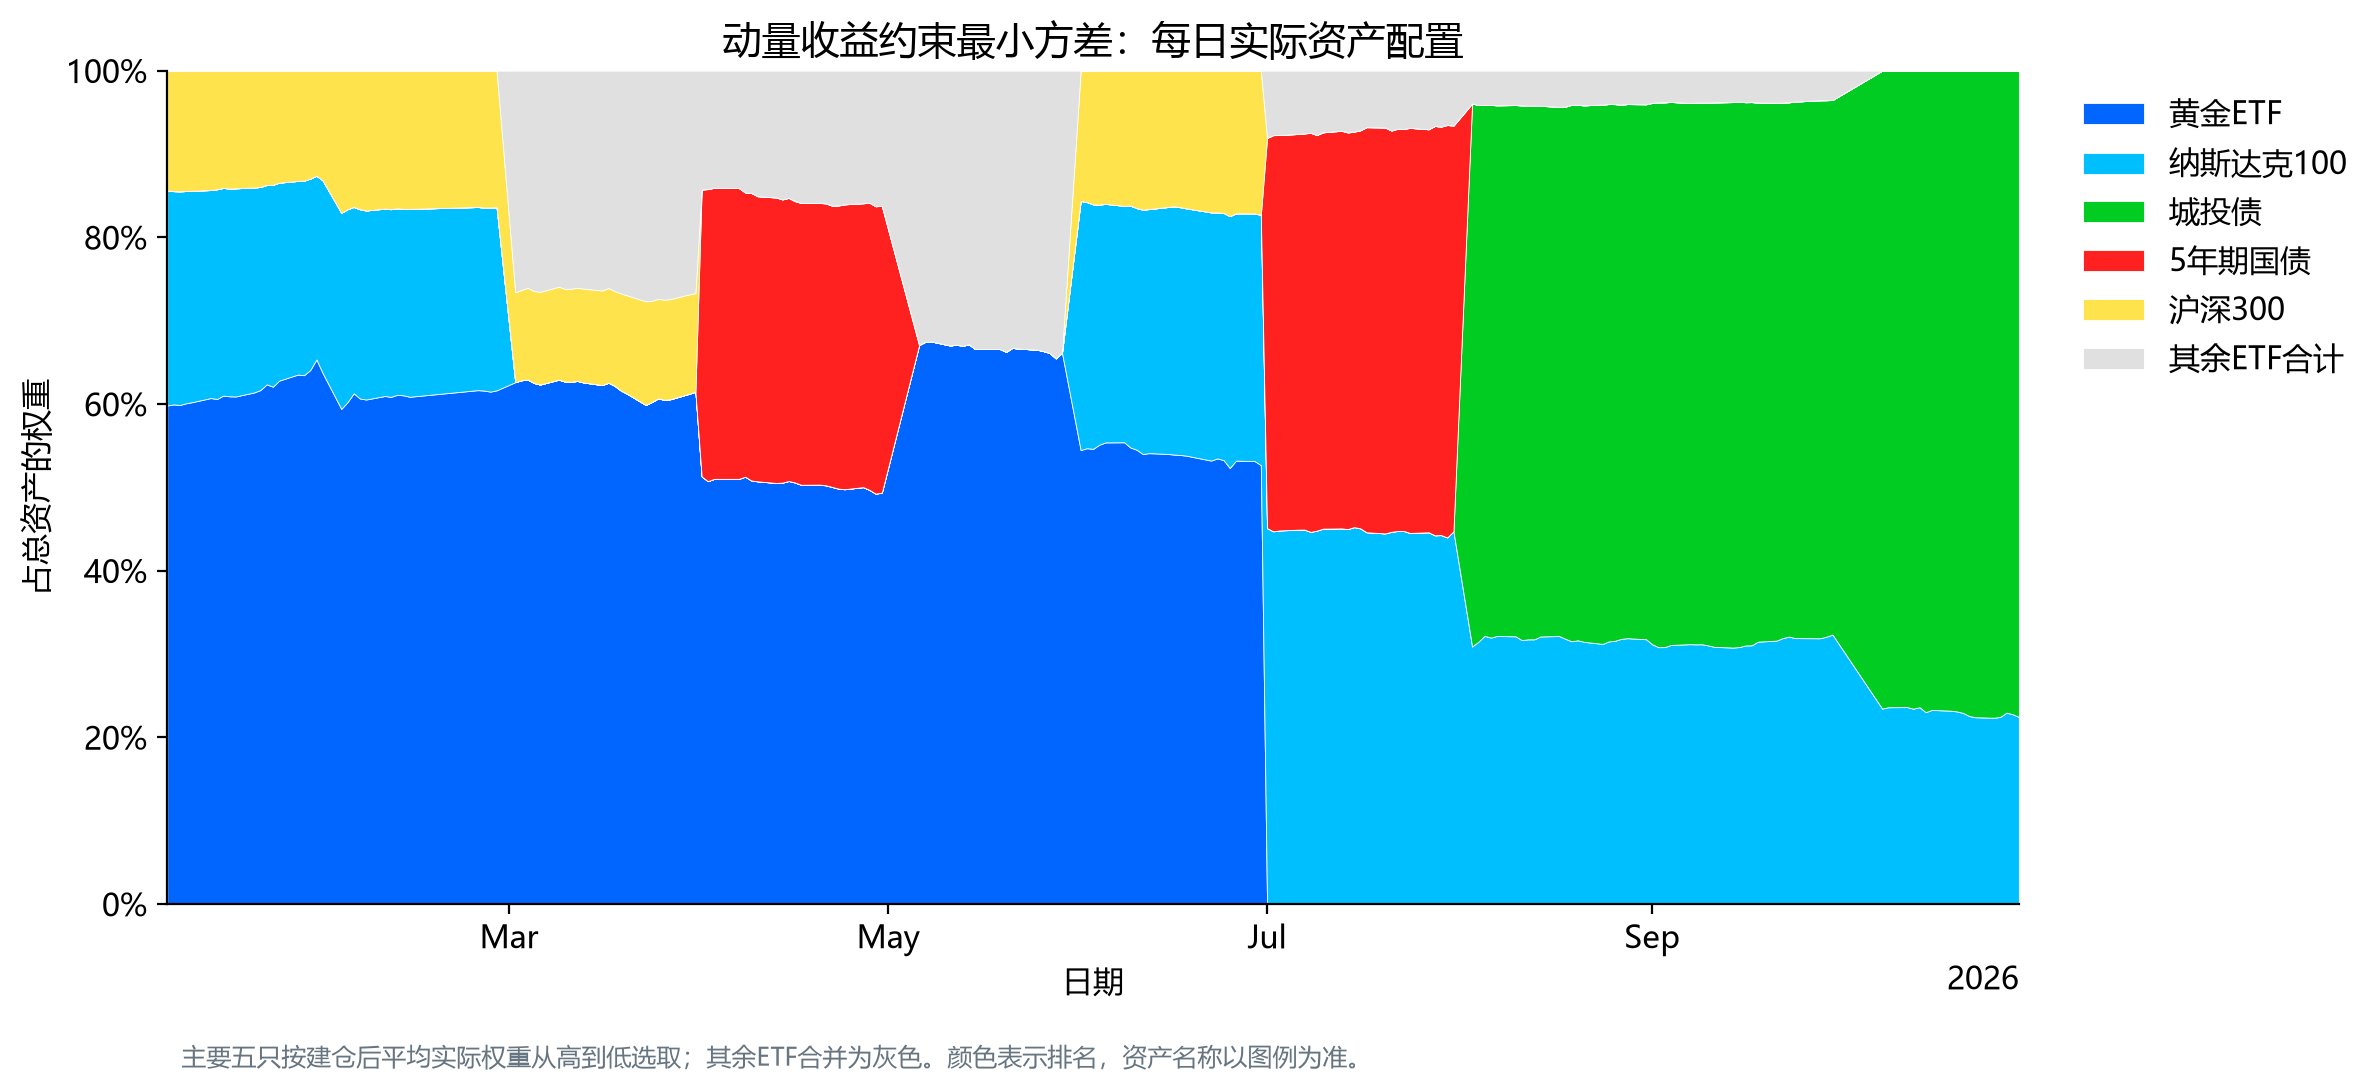
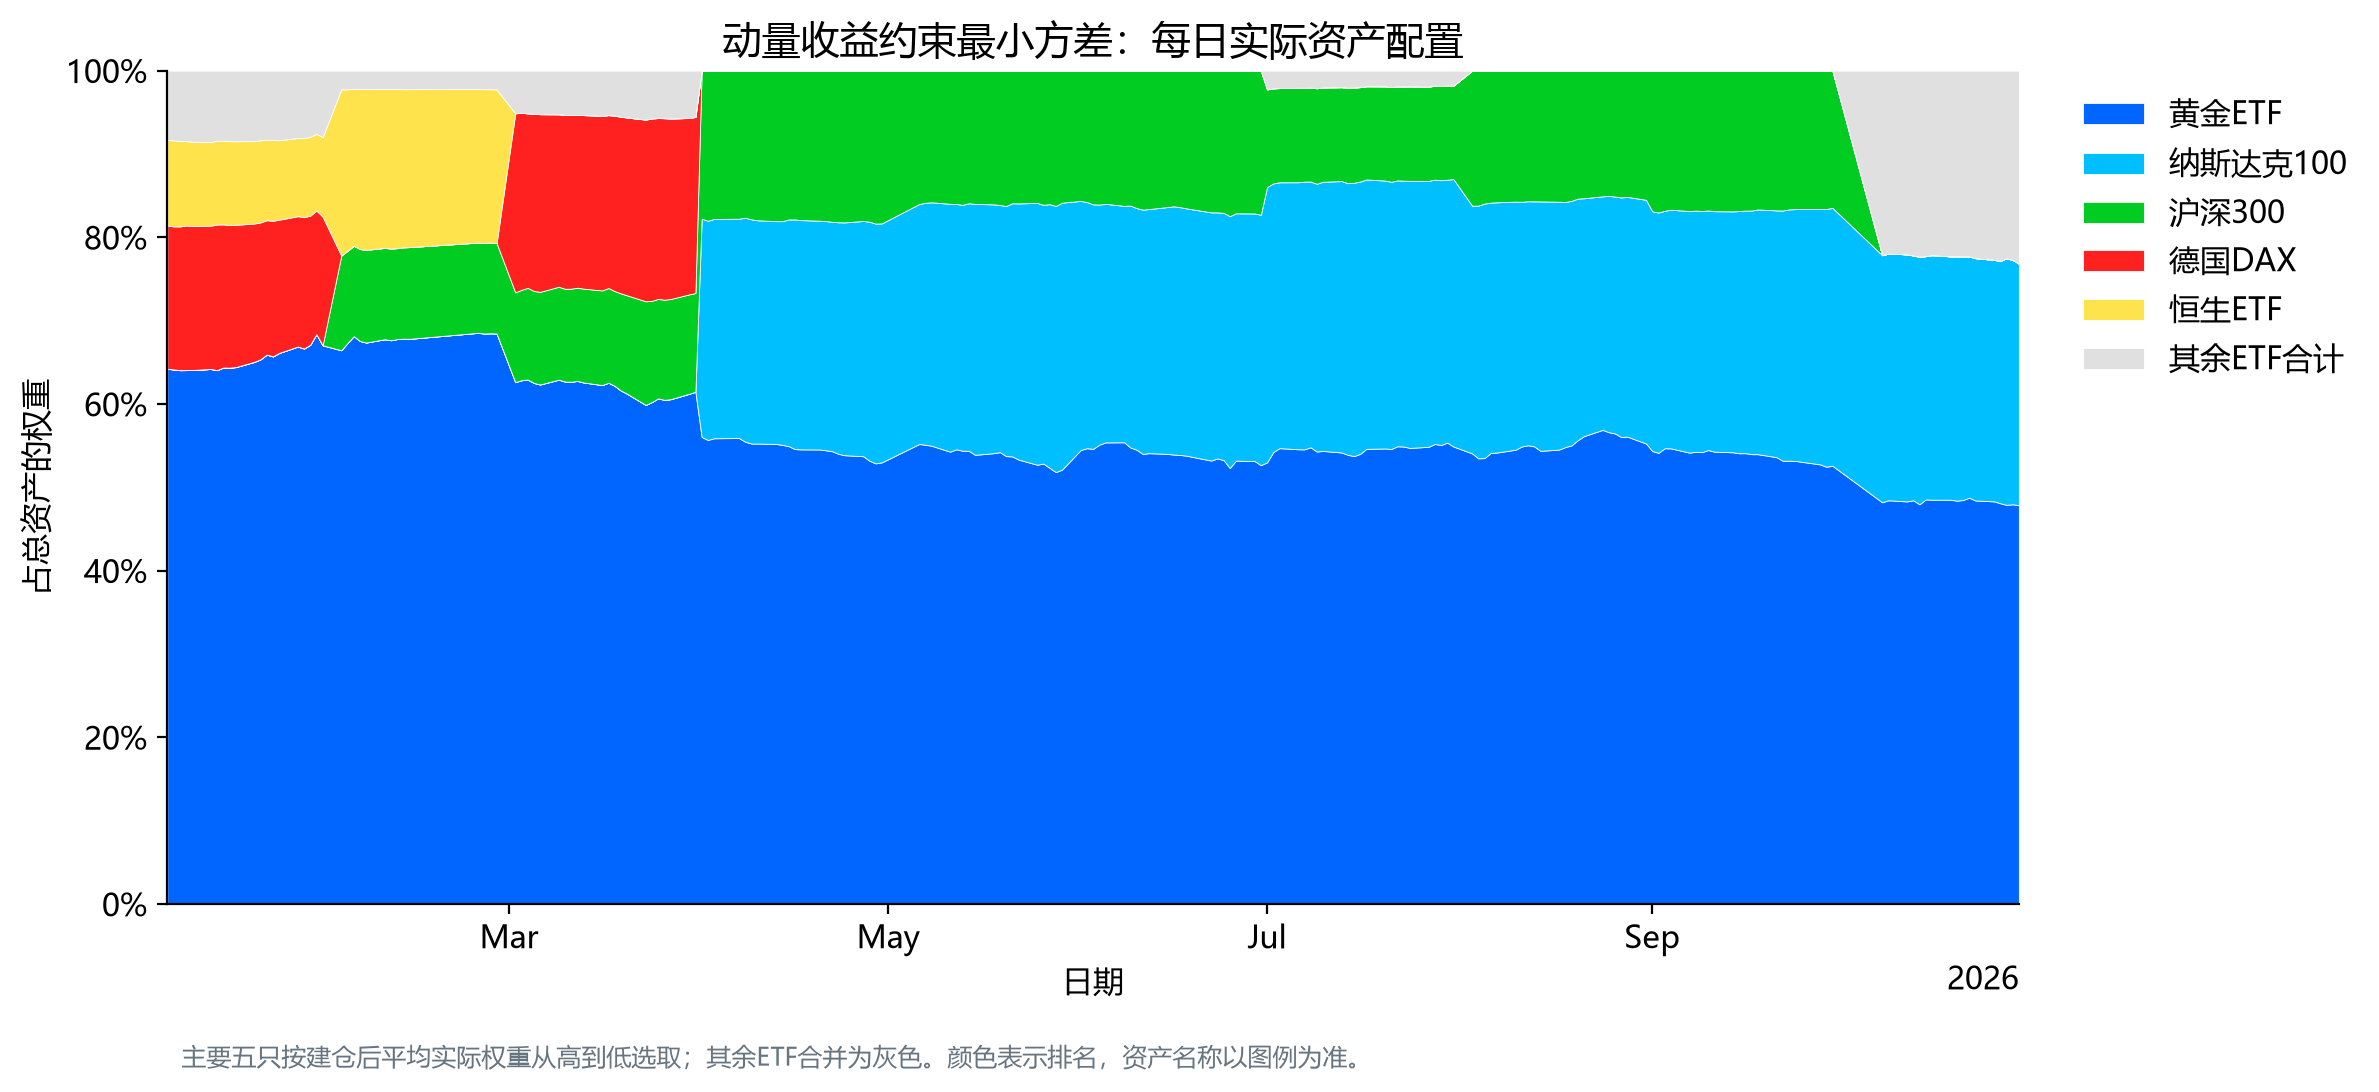
Add files via upload

diff --git a/backtest.py b/backtest.py
@@ -146,11 +146,11 @@ def calculate_target_weights(
         mu = statistics["mean_returns"]
         covariance = statistics["covariance"]
 
-        # 用截至本期信号日的价格，选出过去 126 个交易日涨幅最高的 5 只 ETF
+        # 用截至本期信号日的价格，选出过去 252 个交易日涨幅最高的 5 只 ETF
         selected = select_momentum_etfs(
             prices=prices,
             signal_date=signal_date,
-            lookback=126,
+            lookback=252,
             top_n=5,
         )
 
